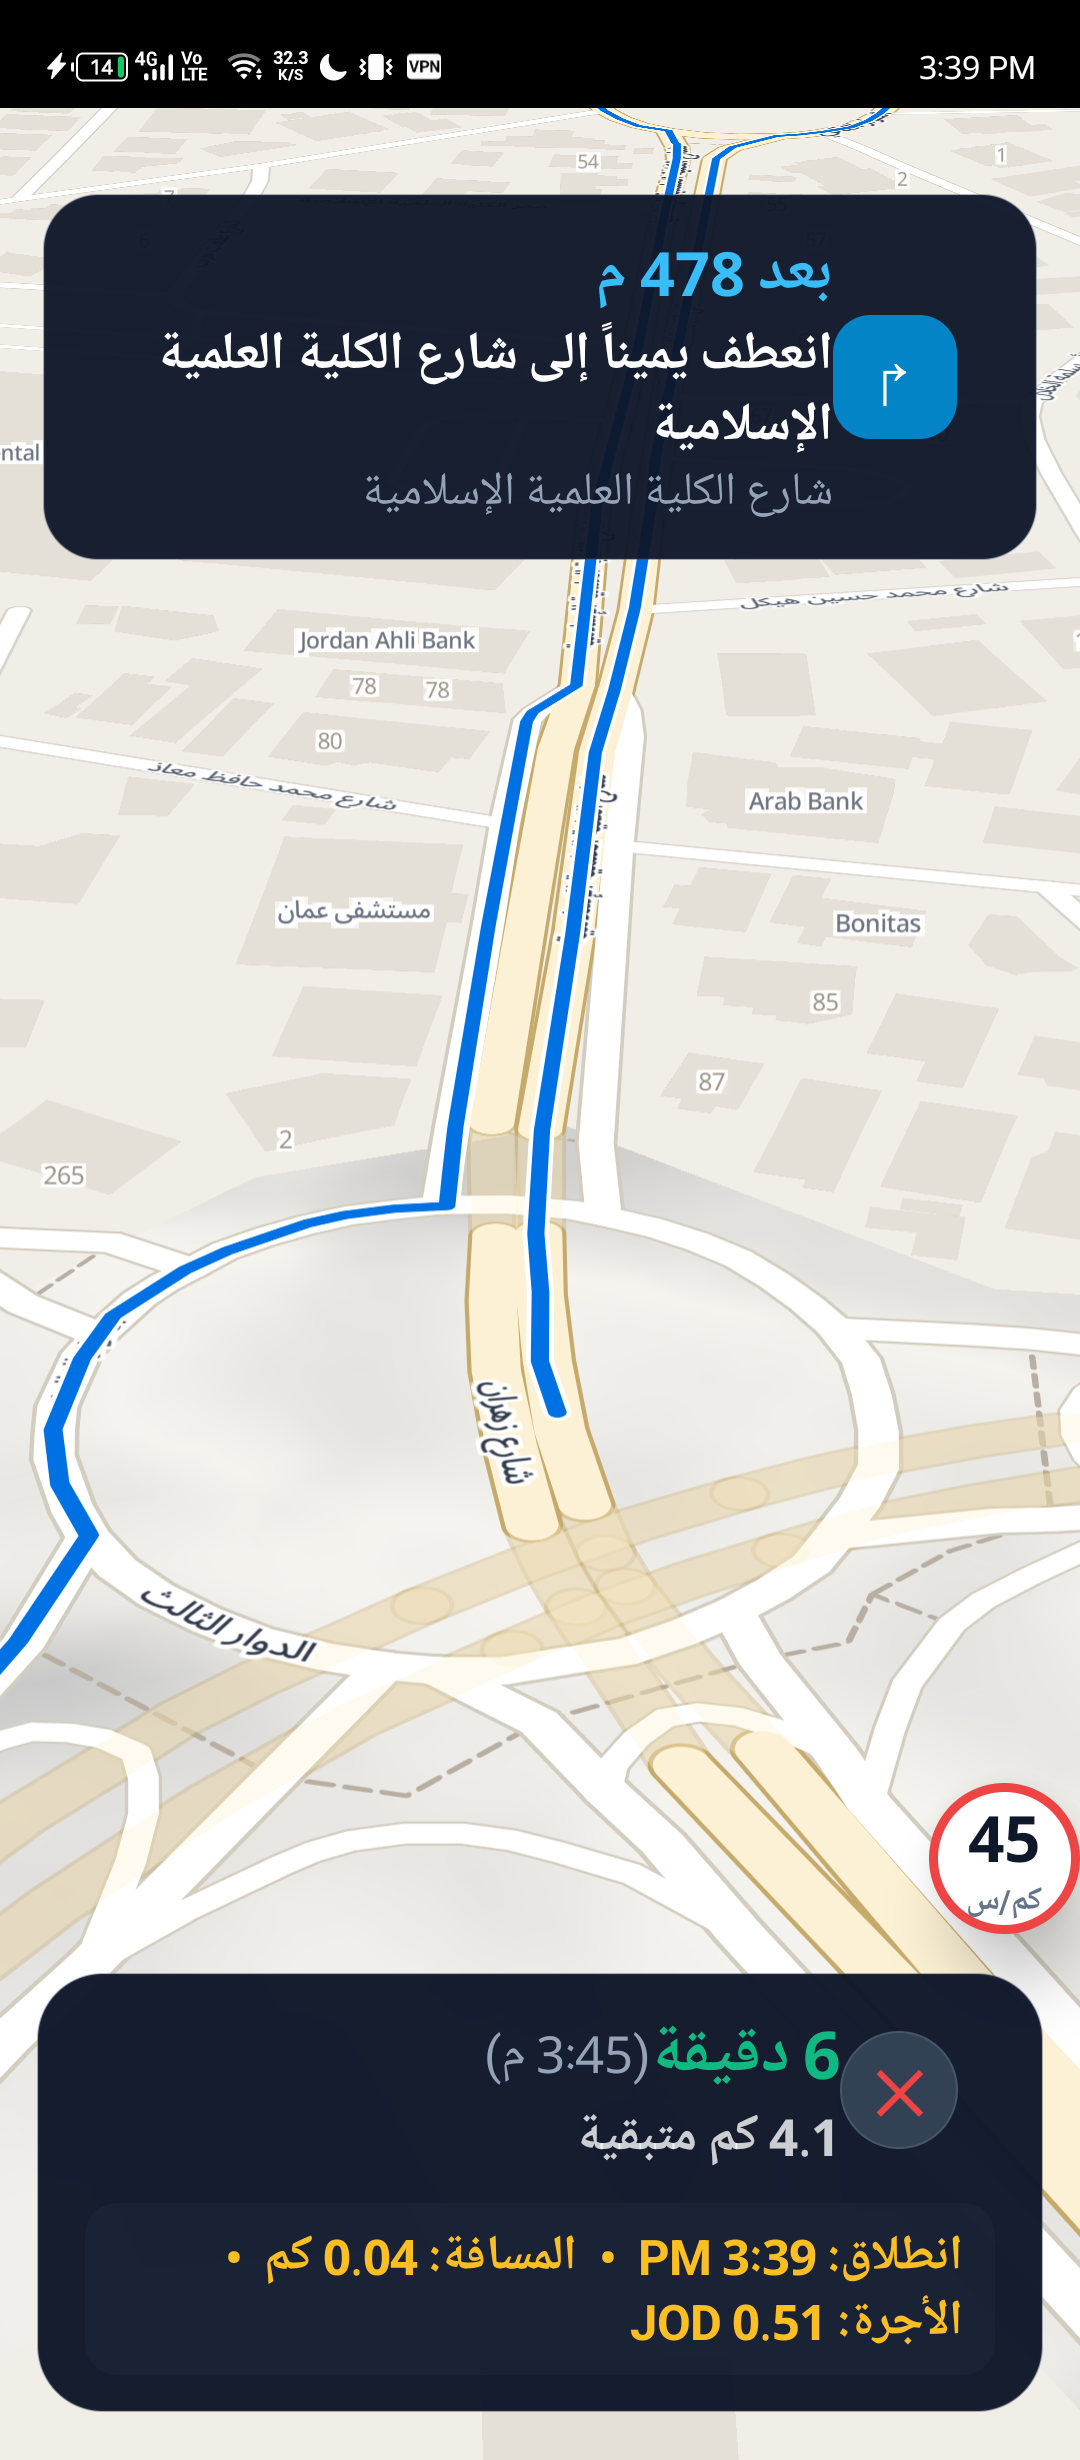
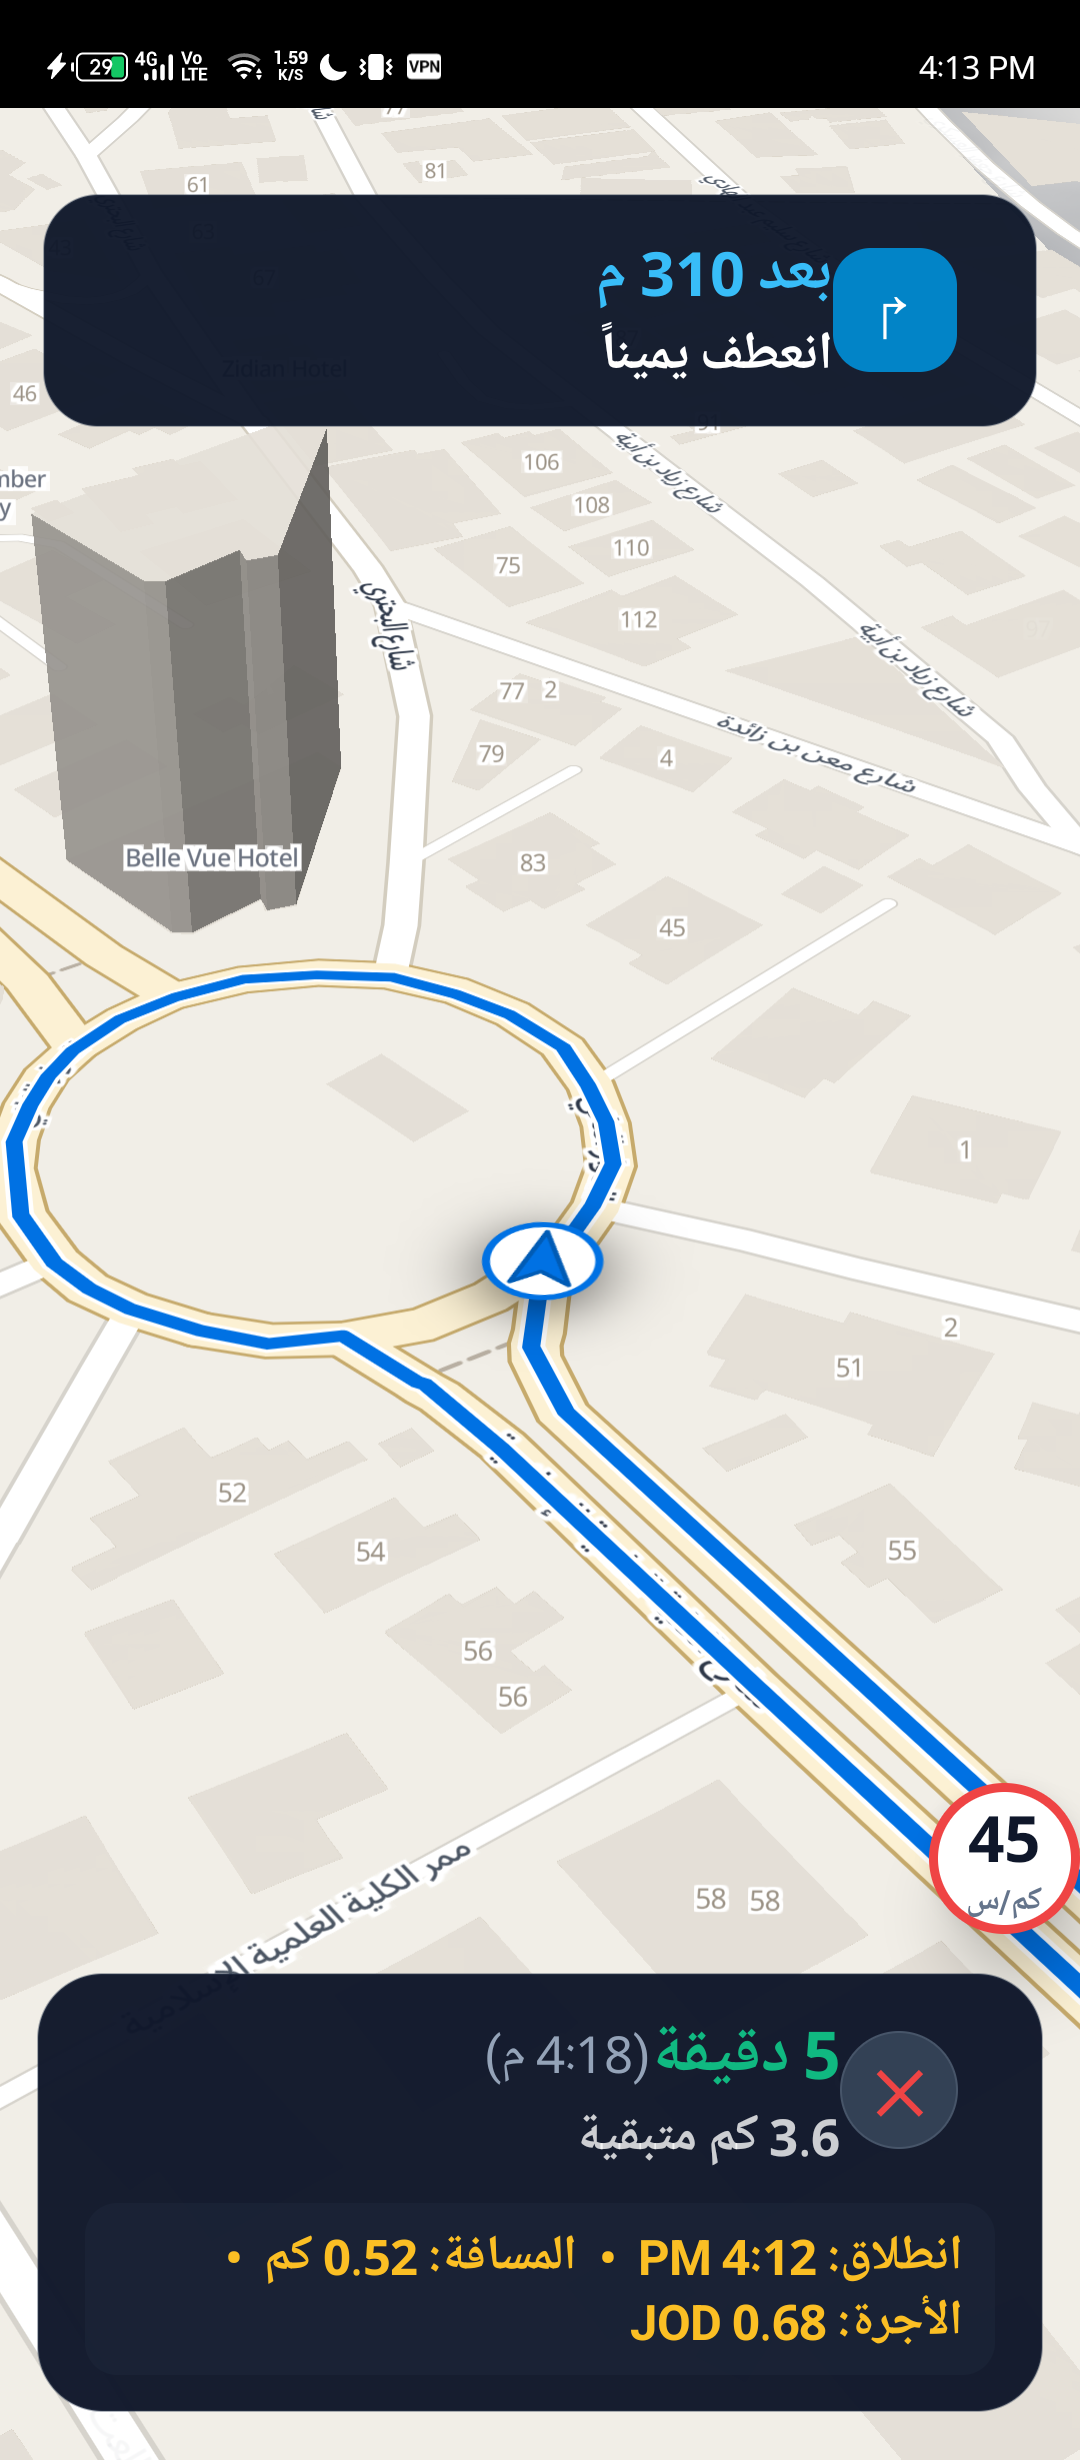
feat(nav): visible directional driver chevron marker, speed-adaptive smart zoom, and roundabout exit routing

diff --git a/siro-nav/src/main/kotlin/com/siro/nav/view/SiroNavView.kt b/siro-nav/src/main/kotlin/com/siro/nav/view/SiroNavView.kt
@@ -112,32 +112,17 @@ class SiroNavView @JvmOverloads constructor(
                     html, body, #map { margin: 0; padding: 0; width: 100%; height: 100%; background: #0F172A; }
                     
                     /* Directional Vehicle Chevron Marker with High-Visibility Halo */
-                    .vehicle-container {
+                    .maplibregl-marker {
+                        z-index: 99999 !important;
+                    }
+                    .vehicle-marker-wrapper {
                         width: 52px;
                         height: 52px;
                         display: flex;
                         align-items: center;
                         justify-content: center;
-                        position: relative;
-                        pointer-events: none;
-                        z-index: 9999;
-                    }
-                    .vehicle-disc {
-                        width: 40px;
-                        height: 40px;
-                        background: #FFFFFF;
-                        border-radius: 50%;
-                        box-shadow: 0 4px 14px rgba(0,0,0,0.5);
-                        display: flex;
-                        align-items: center;
-                        justify-content: center;
-                        border: 2.5px solid #FFFFFF;
-                        position: relative;
-                    }
-                    .vehicle-arrow-svg {
-                        width: 22px;
-                        height: 22px;
-                        display: block;
+                        filter: drop-shadow(0px 6px 14px rgba(0, 0, 0, 0.65));
+                        transform-origin: center center;
                     }
                 </style>
             </head>
@@ -156,8 +141,8 @@ class SiroNavView @JvmOverloads constructor(
                         container: 'map',
                         style: '$styleUrl',
                         center: [35.9106, 31.9539],
-                        zoom: 17.8,
-                        pitch: 58.0,
+                        zoom: 18.2,
+                        pitch: 50.0,
                         bearing: 0,
                         attributionControl: false
                     });
@@ -180,19 +165,17 @@ class SiroNavView @JvmOverloads constructor(
                             img.src = 'https://map.intaleqapp.com/assets/map_icons/' + icon + '.svg';
                         });
 
-                        // Create Sharp SVG Navigation Arrow
                         vehicleEl = document.createElement('div');
-                        vehicleEl.className = 'vehicle-container';
-                        
-                        var disc = document.createElement('div');
-                        disc.className = 'vehicle-disc';
-                        disc.innerHTML = '<svg class="vehicle-arrow-svg" viewBox="0 0 24 24" fill="none"><path d="M12 2L3 21L12 17L21 21L12 2Z" fill="#0071E3" stroke="#005bb5" stroke-width="1.5" stroke-linejoin="round"/></svg>';
-                        
-                        vehicleEl.appendChild(disc);
+                        vehicleEl.className = 'vehicle-marker-wrapper';
+                        vehicleEl.innerHTML = '<svg width="48" height="48" viewBox="0 0 48 48" fill="none" xmlns="http://www.w3.org/2000/svg"><circle cx="24" cy="24" r="21" fill="white" stroke="#0071E3" stroke-width="3"/><path d="M24 7L13 37L24 30L35 37L24 7Z" fill="#0071E3" stroke="#005bb5" stroke-width="2" stroke-linejoin="round"/></svg>';
 
-                        vehicleMarker = new maplibregl.Marker({ element: vehicleEl, rotationAlignment: 'map' })
-                            .setLngLat([35.9106, 31.9539])
-                            .addTo(map);
+                        vehicleMarker = new maplibregl.Marker({ 
+                            element: vehicleEl, 
+                            rotationAlignment: 'map', 
+                            pitchAlignment: 'map' 
+                        })
+                        .setLngLat([35.9106, 31.9539])
+                        .addTo(map);
 
                         map.addSource('nav-route-source', {
                             type: 'geojson',
@@ -236,19 +219,45 @@ class SiroNavView @JvmOverloads constructor(
                         } catch(e) {}
                     }
 
-                    function updateVehiclePosition(lat, lng, heading) {
-                        if (vehicleMarker) {
+                    function calculateSmartZoom(speed) {
+                        // Intelligent Dynamic Zoom according to vehicle speed:
+                        // Low speed (0-25 km/h, intersections/turns): close-up zoom 18.8 - 19.2 for sharp visibility
+                        // Medium speed (25-60 km/h, city corridors): optimal zoom 17.8 - 18.2
+                        // High speed (> 60 km/h, highways): zoomed out 16.5 - 17.0 for broader situational awareness
+                        if (speed <= 0) return 18.8;
+                        if (speed < 25) return 19.0 - (speed / 25.0) * 0.8;
+                        if (speed < 60) return 18.2 - ((speed - 25.0) / 35.0) * 0.7;
+                        if (speed < 100) return 17.5 - ((speed - 60.0) / 40.0) * 0.8;
+                        return 16.5;
+                    }
+
+                    function updateVehiclePosition(lat, lng, heading, speed) {
+                        if (!vehicleMarker) {
+                            vehicleEl = document.createElement('div');
+                            vehicleEl.className = 'vehicle-container';
+                            var disc = document.createElement('div');
+                            disc.className = 'vehicle-disc';
+                            disc.innerHTML = '<svg class="vehicle-arrow-svg" viewBox="0 0 24 24" fill="none"><path d="M12 2L3 21L12 17L21 21L12 2Z" fill="#0071E3" stroke="#004b99" stroke-width="1.8" stroke-linejoin="round"/></svg>';
+                            vehicleEl.appendChild(disc);
+                            vehicleMarker = new maplibregl.Marker({ element: vehicleEl, rotationAlignment: 'map', pitchAlignment: 'map' })
+                                .setLngLat([lng, lat])
+                                .addTo(map);
+                        } else {
                             vehicleMarker.setLngLat([lng, lat]);
-                            if (heading >= 0) {
-                                vehicleMarker.setRotation(heading);
-                            }
                         }
+
+                        if (heading >= 0 && vehicleMarker) {
+                            vehicleMarker.setRotation(heading);
+                        }
+
                         var targetBearing = heading >= 0 ? heading : map.getBearing();
+                        var targetZoom = calculateSmartZoom(typeof speed === 'number' ? speed : 0);
+
                         map.easeTo({
                             center: [lng, lat],
                             bearing: targetBearing,
-                            pitch: 58.0,
-                            zoom: 17.8,
+                            pitch: 50.0,
+                            zoom: targetZoom,
                             duration: 350
                         });
                     }
@@ -514,8 +523,8 @@ class SiroNavView @JvmOverloads constructor(
         evaluateJs("setRoute('${coords.toString().replace("'", "\\'")}');")
     }
 
-    fun updateVehicle(lat: Double, lng: Double, heading: Double) {
-        evaluateJs("updateVehiclePosition($lat, $lng, $heading);")
+    fun updateVehicle(lat: Double, lng: Double, heading: Double, speedKmh: Double = 0.0) {
+        evaluateJs("updateVehiclePosition($lat, $lng, $heading, $speedKmh);")
     }
 
     override fun onInstructionChanged(instruction: NavEvent.Instruction) {
@@ -566,11 +575,12 @@ class SiroNavView @JvmOverloads constructor(
                 if (km >= 1.0) String.format("%.1f km remaining", km) else "${progress.remainingDistanceMeters.toInt()} m remaining"
             }
 
-            // Real Heading & Position Update
+            // Real Heading & Dynamic Speed-based Zoom Position Update
             updateVehicle(
                 progress.snappedPosition.latitude,
                 progress.snappedPosition.longitude,
-                progress.snappedPosition.heading
+                progress.snappedPosition.heading,
+                progress.currentSpeedKmh
             )
 
             // Dynamic Developer Tariff Metrics: [انطلاق الرحلة | المسافة | الأجرة]

diff --git a/siro-nav/src/main/kotlin/com/siro/nav/services/RoutingClient.kt b/siro-nav/src/main/kotlin/com/siro/nav/services/RoutingClient.kt
@@ -92,20 +92,43 @@ class RoutingClient(val config: NavConfig) {
             for (i in 0 until legSteps.length()) {
                 val st = legSteps.getJSONObject(i)
                 val maneuver = st.getJSONObject("maneuver")
-                val loc = maneuver.getJSONArray("location")
+                val mType = maneuver.optString("type", "")
                 val modifier = maneuver.optString("modifier", "")
-                val sign = when (modifier) {
-                    "right", "slight right", "sharp right" -> 1
-                    "left", "slight left", "sharp left" -> -1
-                    "uturn" -> -98
+                val loc = maneuver.getJSONArray("location")
+                val exitNumber = if (maneuver.has("exit")) maneuver.optInt("exit") else null
+                val street = st.optString("name", "")
+
+                val isRoundabout = mType == "roundabout" || mType == "rotary" || modifier.contains("roundabout")
+                val sign = when {
+                    isRoundabout -> 6
+                    modifier == "uturn" -> -98
+                    modifier in listOf("right", "slight right", "sharp right") -> 1
+                    modifier in listOf("left", "slight left", "sharp left") -> -1
                     else -> 0
                 }
-                val street = st.optString("name", "")
-                val instText = when (sign) {
-                    1 -> if (street.isNotEmpty()) "انعطف يميناً إلى $street" else "انعطف يميناً"
-                    -1 -> if (street.isNotEmpty()) "انعطف يساراً إلى $street" else "انعطف يساراً"
-                    -98 -> "قم بالدوران للخلف"
-                    else -> if (street.isNotEmpty()) "تابع السير على $street" else "تابع السير على الطريق"
+
+                val instText = if (isRoundabout) {
+                    val exitNameAr = when (exitNumber) {
+                        1 -> "المخرج الأول"
+                        2 -> "المخرج الثاني"
+                        3 -> "المخرج الثالث"
+                        4 -> "المخرج الرابع"
+                        5 -> "المخرج الخامس"
+                        6 -> "المخرج السادس"
+                        else -> if (exitNumber != null) "المخرج رقم $exitNumber" else "المخرج المناسب"
+                    }
+                    if (street.isNotEmpty()) {
+                        "عند الدوار، اسلك $exitNameAr إلى $street"
+                    } else {
+                        "عند الدوار، اسلك $exitNameAr"
+                    }
+                } else {
+                    when (sign) {
+                        1 -> if (street.isNotEmpty()) "انعطف يميناً إلى $street" else "انعطف يميناً"
+                        -1 -> if (street.isNotEmpty()) "انعطف يساراً إلى $street" else "انعطف يساراً"
+                        -98 -> "قم بالدوران للخلف"
+                        else -> if (street.isNotEmpty()) "تابع السير على $street" else "تابع السير على الطريق"
+                    }
                 }
 
                 steps.add(
@@ -114,6 +137,7 @@ class RoutingClient(val config: NavConfig) {
                         instruction = instText,
                         streetName = street,
                         maneuverType = sign,
+                        exitNumber = exitNumber,
                         distanceMeters = st.optDouble("distance", 0.0),
                         durationSeconds = st.optDouble("duration", 0.0),
                         lat = loc.getDouble(1),

diff --git a/sample-app/src/main/kotlin/com/siro/nav/sample/MainActivity.kt b/sample-app/src/main/kotlin/com/siro/nav/sample/MainActivity.kt
@@ -87,8 +87,10 @@ class MainActivity : AppCompatActivity() {
                 // Smooth simulation driving with heading
                 val simulator = NavRouteSimulator(liveRoute, speedKmh = 45.0)
                 val fixes = simulator.generateSimulatedFixes(stepIntervalSeconds = 0.35)
+                android.util.Log.d("SIM_DEBUG", "Generated fixes count: " + fixes.size)
 
-                simJob = launch {
+                simJob = lifecycleScope.launch(kotlinx.coroutines.Dispatchers.Default) {
+                    android.util.Log.d("SIM_DEBUG", "Starting simulation coroutine...")
                     for (fix in fixes) {
                         if (!navController.isNavigating) break
                         val loc = android.location.Location("siro_road_gps").apply {
@@ -100,7 +102,8 @@ class MainActivity : AppCompatActivity() {
                             accuracy = 3.0f
                             time = System.currentTimeMillis()
                         }
-                        navController.updateLocation(loc)
+                        android.util.Log.d("SIM_DEBUG", "Feeding loc: " + loc.latitude + ", " + loc.longitude + " bearing=" + loc.bearing)
+                        runOnUiThread { navController.updateLocation(loc) }
                         delay(350)
                     }
                 }
